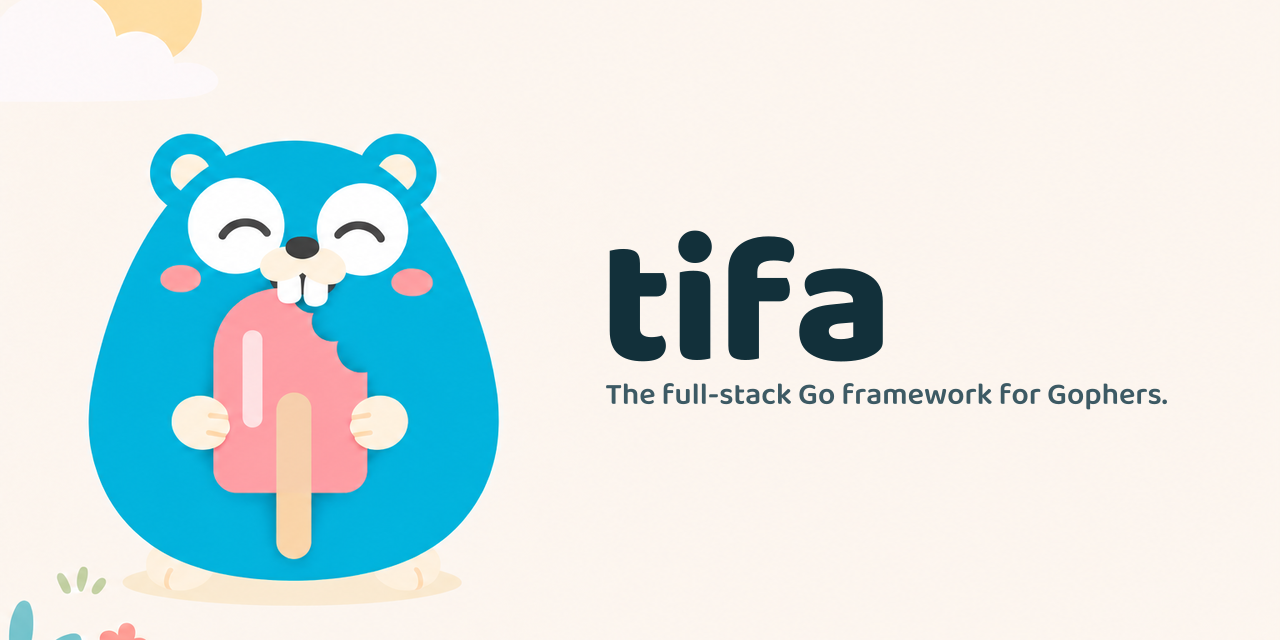
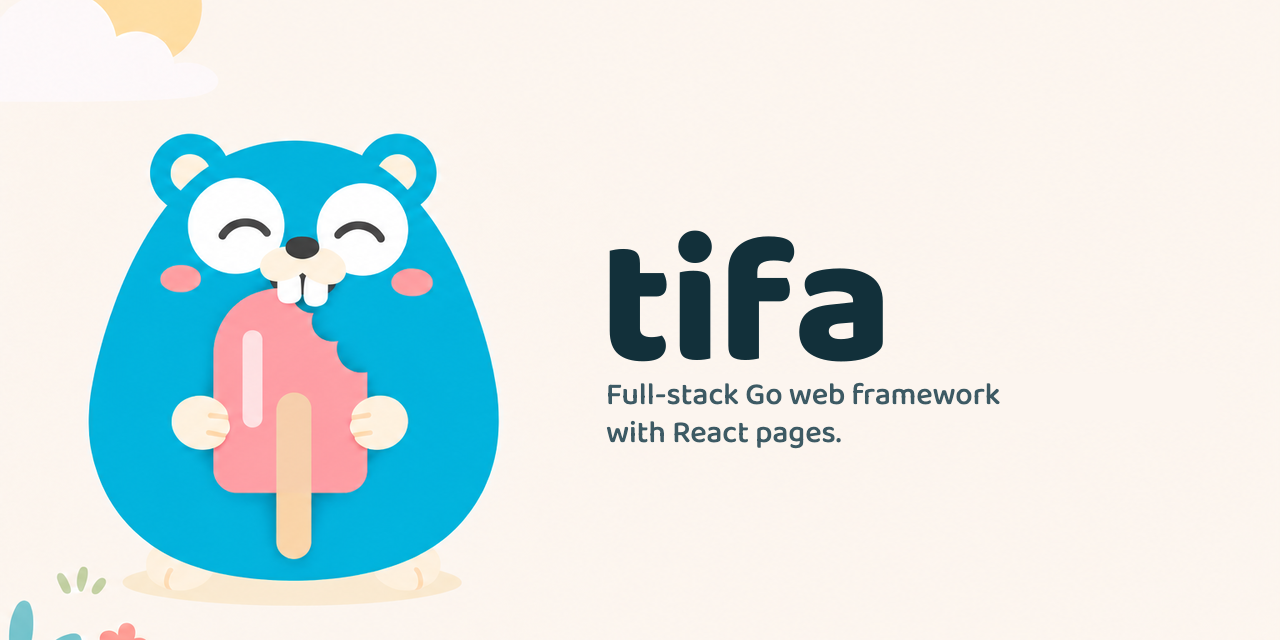
feat(home): lead with the full-stack Go web framework again

Changed region(s): [[0.4688, 0.5938, 0.9062, 0.7188]]

diff --git a/app/landing.css b/app/landing.css
@@ -79,8 +79,6 @@
   mask-image: linear-gradient(180deg, #000 0%, transparent 85%);
 }
 .lp .hero-grid { position: relative; display: grid; grid-template-columns: minmax(0, 1.08fr) minmax(0, 1fr); gap: 56px; align-items: center; }
-.lp .eyebrow { display: inline-flex; align-items: center; gap: 10px; margin: 0 0 28px; font: 500 13px var(--font-mono); color: var(--text-2); }
-.lp .eyebrow::before { content: ""; width: 18px; height: 1px; background: var(--accent); }
 .lp h1 { font-weight: 600; font-size: clamp(44px, 5.6vw, 76px); line-height: 1.02; letter-spacing: -0.035em; margin: 0; text-wrap: balance; }
 .lp .sub { margin: 28px 0 0; max-width: 540px; color: var(--text-2); font-size: 18px; line-height: 1.6; }
 .lp .install { display: flex; align-items: center; max-width: 560px; margin-top: 36px; border: 1px solid var(--line-strong); border-radius: 10px; background: var(--bg-raised); }
@@ -99,10 +97,12 @@
 .lp .status-line { margin: 28px 0 0; display: inline-flex; align-items: center; gap: 10px; font: 400 13px var(--font-mono); color: var(--muted); }
 .lp .status-line .tag { color: var(--wafer); border: 1px solid color-mix(in srgb, var(--wafer) 40%, transparent); border-radius: 4px; padding: 1px 6px; }
 
-/* A headline that has a comma breaks there, and a line is never split: in Chinese a break inside
-   it would cut a word. The Chinese headline is set smaller so that its longer line fits. */
-.lp .h1-line { display: inline-block; white-space: nowrap; }
+/* A headline that has a comma breaks there. In Chinese a line is never split, since a break inside
+   it would cut a word, and the Chinese headline is set smaller so that its longer line fits. English
+   lines wrap between words. */
+.lp .h1-line { display: inline-block; }
 .lp .h1-line + .h1-line { display: block; }
+html:lang(zh-CN) .lp .h1-line { white-space: nowrap; }
 html:lang(zh-CN) .lp h1 { font-size: clamp(36px, 4.4vw, 58px); letter-spacing: -0.02em; line-height: 1.15; }
 
 /* Terminal window */

diff --git a/app/page.tsx b/app/page.tsx
@@ -95,7 +95,6 @@ export default function HomePage() {
         <section className="hero">
           <div className="wrap hero-grid">
             <div>
-              <p className="eyebrow">{t('hero.eyebrow')}</p>
               <h1>
                 {headlineLines(t('hero.tagline')).map((line, _, lines) =>
                   lines.length > 1 ? (
